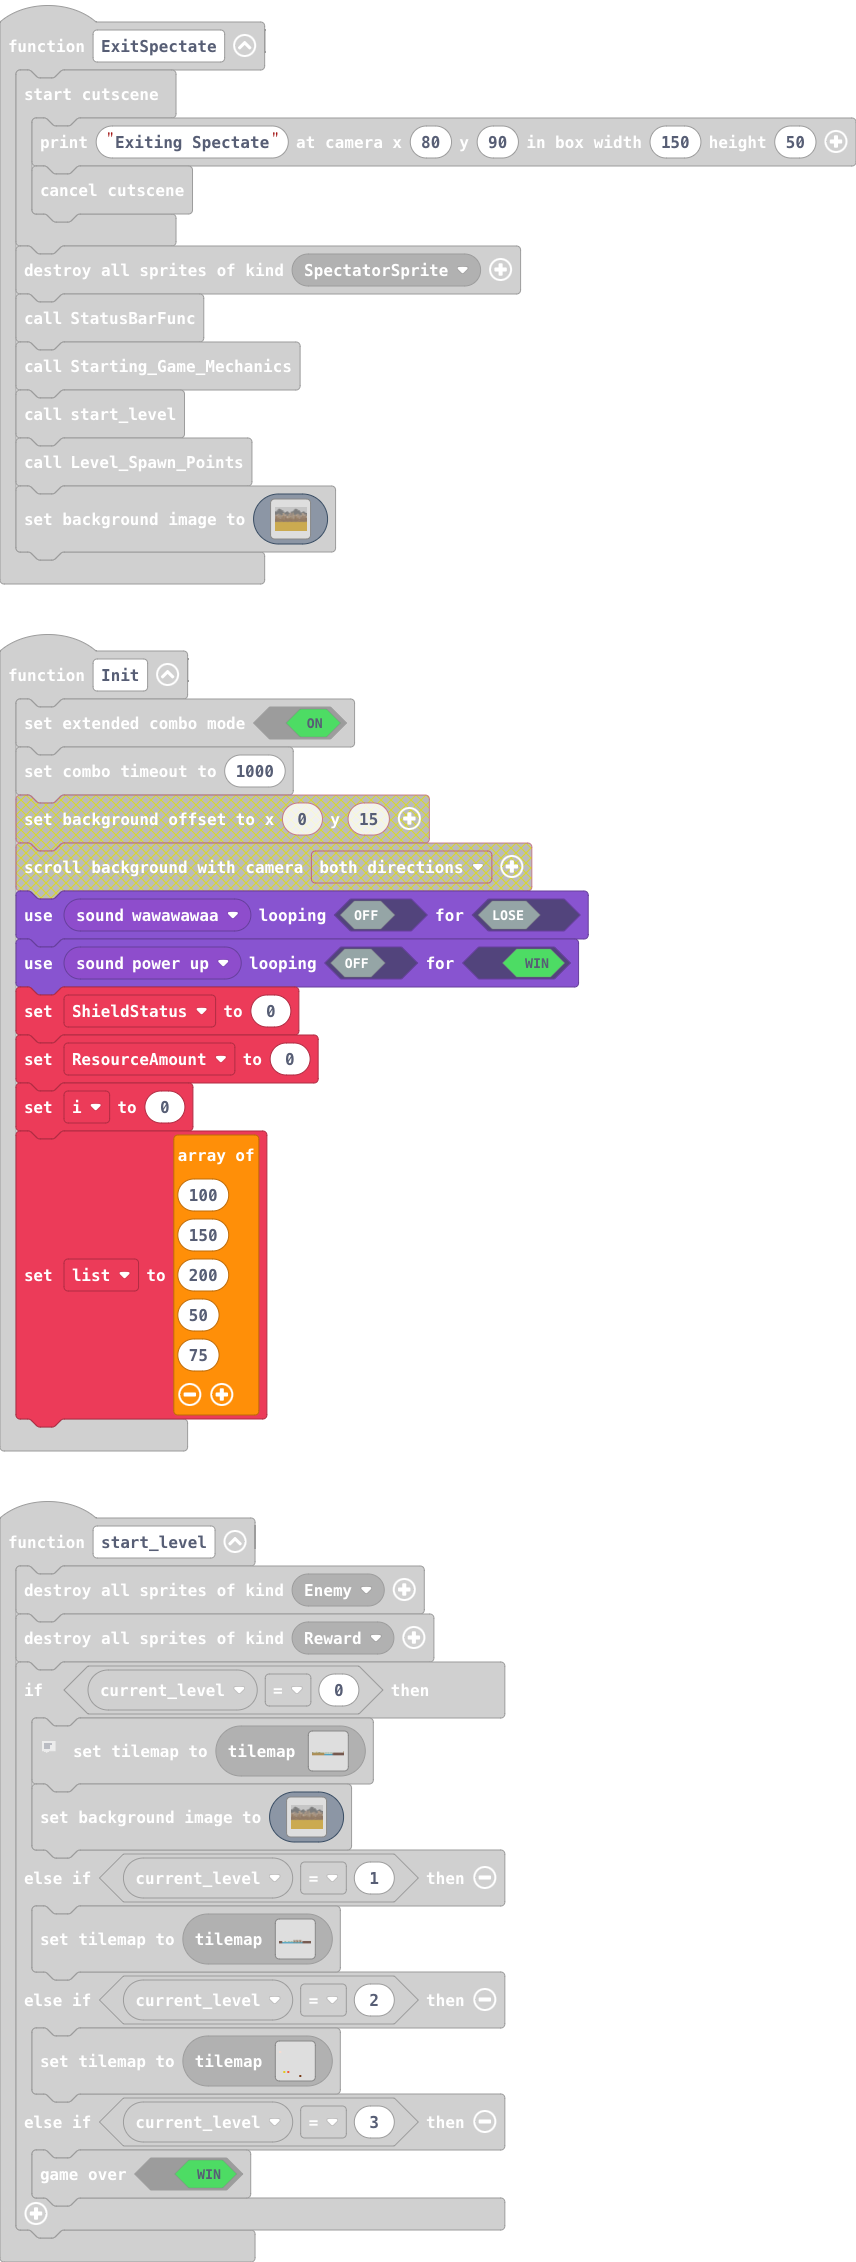
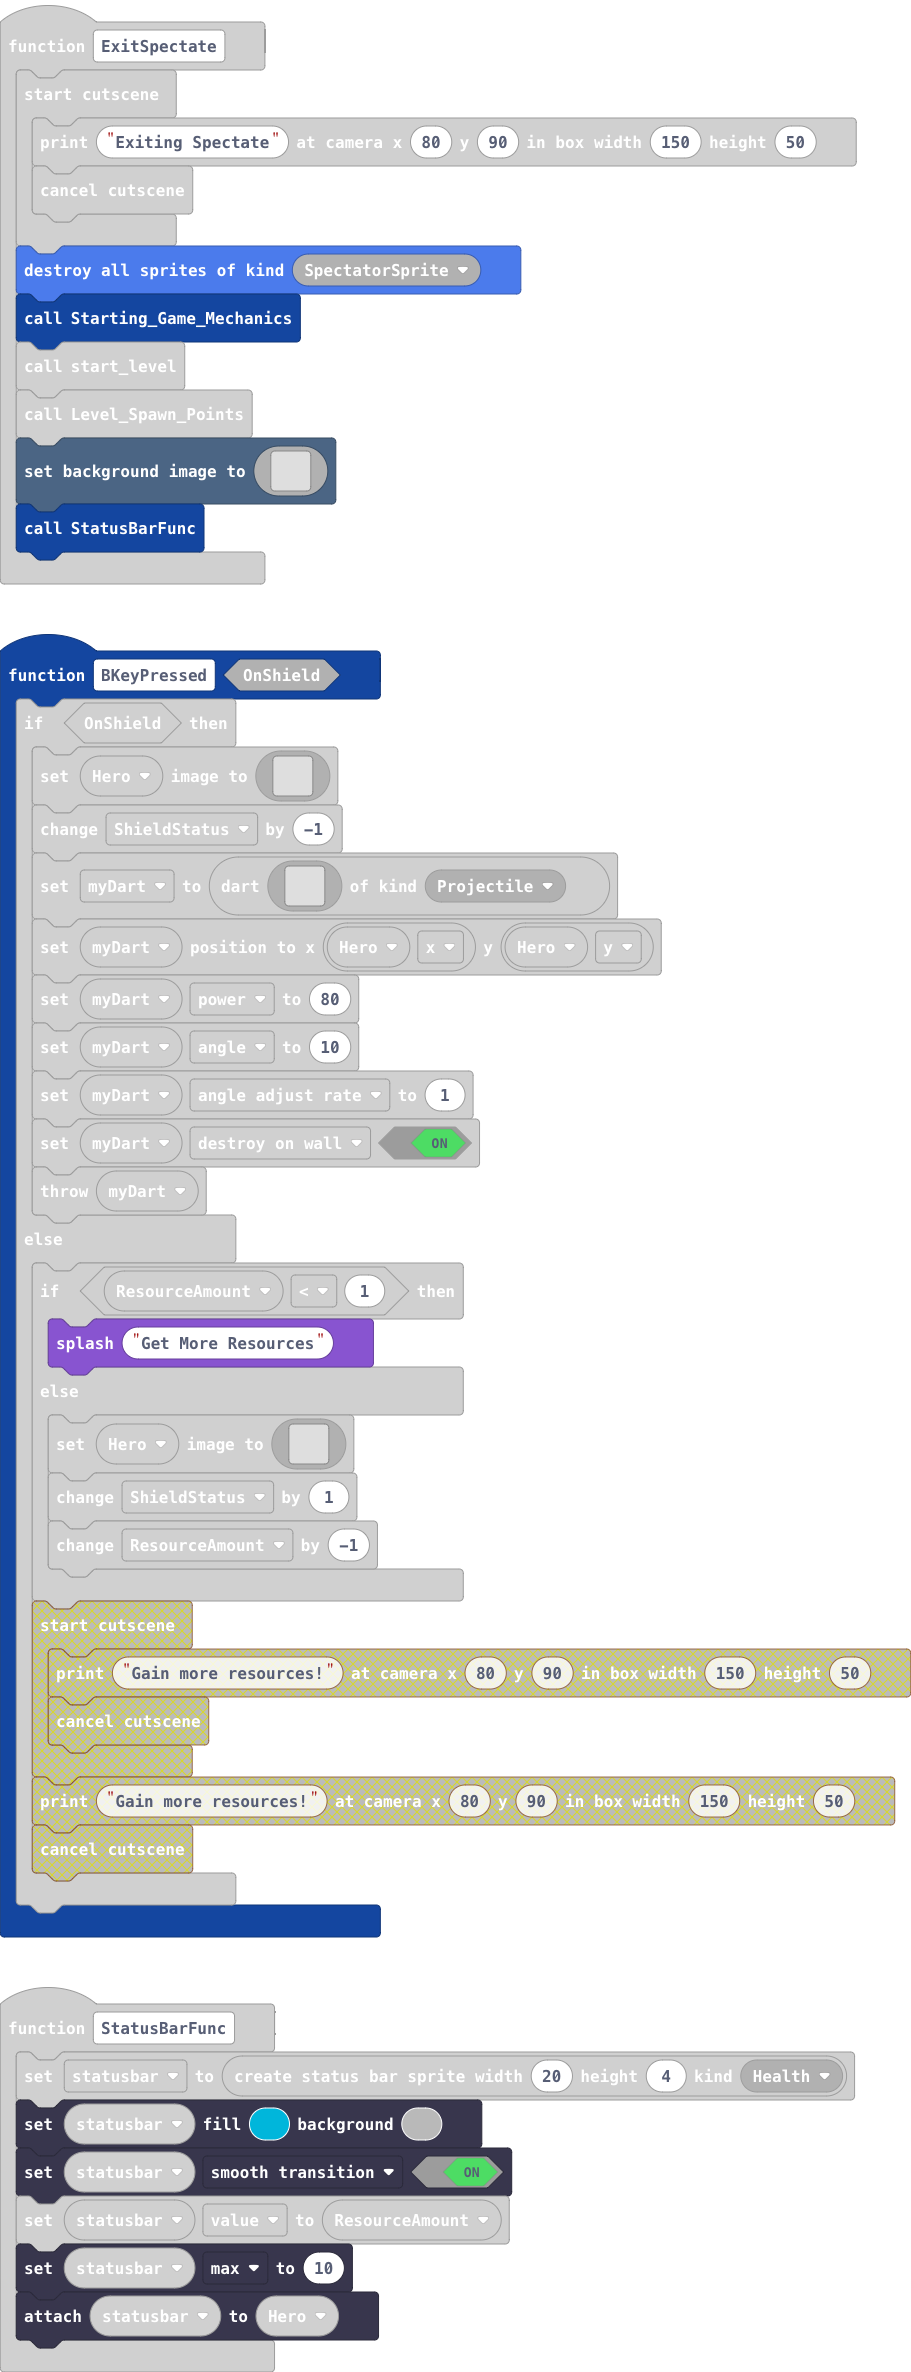
Update pxt.json, main.blocks, main.ts, tilemap.g.jres, tilemap.g.ts

diff --git a/tilemap.g.ts b/tilemap.g.ts
@@ -54,28 +54,11 @@ namespace myTiles {
     export const tile24 = image.ofBuffer(hex``);
     //% fixedInstance jres blockIdentity=images._tile
     export const tile26 = image.ofBuffer(hex``);
+    //% fixedInstance jres blockIdentity=images._tile
+    export const tile27 = image.ofBuffer(hex``);
 
     helpers._registerFactory("tilemap", function(name: string) {
         switch(helpers.stringTrim(name)) {
-            case "level18":
-            case "level18":return tiles.createTilemap(hex`1000100000000000000000000000000000000000000000000000000000000000000000000000000000000000000000000000000004000000000000000000000000000000000000000000000000000000000000000000000000000000000000000000000000000000000000000000000000000000000000000000000000000000000000000000000000000000000000000000000000000000000000000000000000000000000000000000000000000000000000000000000000000000000000000000000000000000000000000000000000000000000001000200000000000000000000000000000000000000000000000000000000000000000000000000030000000000`, img`
-. . . . . . . . . . . . . . . . 
-. . . . . . . . . . . . . . . . 
-. . . . . . . . . . . . . . . . 
-. . . . . . . . . . . . . . . . 
-. . . . . . . . . . . . . . . . 
-. . . . . . . . . . . . . . . . 
-. . . . . . . . . . . . . . . . 
-. . . . . . . . . . . . . . . . 
-. . . . . . . . . . . . . . . . 
-. . . . . . . . . . . . . . . . 
-. . . . . . . . . . . . . . . . 
-. . . . . . . . . . . . . . . . 
-. . . . . . . . . . . . . . . . 
-. . . . . . . . . . . . . . . . 
-. . . . . . . . . . . . . . . . 
-. . . . . . . . . . . . . . . . 
-`, [myTiles.transparency16,myTiles.tile5,myTiles.tile6,sprites.dungeon.chestOpen,myTiles.tile16], TileScale.Sixteen);
             case "level1":
[1 lines of base64/hex data omitted]
 ..................................................
@@ -96,7 +79,7 @@ namespace myTiles {
 2222222222222222222.............222222222222222222
 `, [myTiles.transparency16,myTiles.tile5,myTiles.tile16,myTiles.tile22,myTiles.tile23,myTiles.tile14,myTiles.tile4,myTiles.tile3,myTiles.tile7,myTiles.tile10,myTiles.tile21,myTiles.tile1,myTiles.tile11,myTiles.tile9,myTiles.tile13,myTiles.tile17,sprites.dungeon.hazardWater], TileScale.Sixteen);
             case "level5":
[2 lines of base64/hex data omitted]
 .......................................................
 .......................................................
 .......................................................
@@ -106,14 +89,49 @@ namespace myTiles {
 .......................................................
 .......................................................
 .......................................................
-.......................................................
-.........................2.2..2.2..2.2.................
+.........................222..222..222.................
+.........................2.2..2.2..2.2................2
 .........................2.2..2.2..2.2.................
 22222....222...222..222..222..222..222..222222222222222
 22222....................2.2..2.2..2.2..222222222222222
 22222....................2.2..2.2..2.2..222222222222222
 22222....................2.2..2.2..2.2..222222222222222
-`, [myTiles.transparency16,myTiles.tile16,myTiles.tile22,myTiles.tile7,myTiles.tile9,myTiles.tile17,myTiles.tile13,myTiles.tile11,sprites.dungeon.hazardWater,myTiles.tile18,myTiles.tile12,myTiles.tile19,myTiles.tile20,myTiles.tile24,myTiles.tile26], TileScale.Sixteen);
+`, [myTiles.transparency16,myTiles.tile16,myTiles.tile22,myTiles.tile7,myTiles.tile9,myTiles.tile17,myTiles.tile13,myTiles.tile11,sprites.dungeon.hazardWater,myTiles.tile18,myTiles.tile12,myTiles.tile19,myTiles.tile20,myTiles.tile24,myTiles.tile26,myTiles.tile21,myTiles.tile5,myTiles.tile1,myTiles.tile10], TileScale.Sixteen);
+            case "level18":
[1 lines of base64/hex data omitted]
+................................................................................................................................................................
+................................................................................................................................................................
+................................................................................................................................................................
+................................................................................................................................................................
+................................................................................................................................................................
+................................................................................................................................................................
+................................................................................................................................................................
+................................................................................................................................................................
+................................................................................................................................................................
+....................2..2..2..2..2..2..2..2222222................................................................................................................
+...............2....2..2..2..2..2..2..2.........................................................................................................................
+22.........2...2....2..2..2..2..2..2..2.........................................................................................................................
+......2....2...2....2..2..2..2..2..2..2.........................................................................................................................
+..2...2....2...2....2..2..2..2..2..2..2.........................................................................................................................
+22222222222222222...2..2..2..2..2..2..2.........................................................................................................................
+....................2..2..2..2..2..2..2.........................................................................................................................
+....................2..2..2..2..2..2..2.........................................................................................................................
+....................2..2..2..2..2..2..2.........................................................................................................................
+....................2..2..2..2..2..2..2.........................................................................................................................
+....................2..2..2..2..2..2..2..2......................................................................................................................
+....................2..2..2..2..2..2..2..2......................................................................................................................
+....................2..2..2..2..2..2..2..2......................................................................................................................
+222222222222222222222222222222222222222222......................................................................................................................
+................................................................................................................................................................
+................................................................................................................................................................
+................................................................................................................................................................
+................................................................................................................................................................
+................................................................................................................................................................
+................................................................................................................................................................
+................................................................................................................................................................
+................................................................................................................................................................
+................................................................................................................................................................
+`, [myTiles.transparency16,myTiles.tile16,myTiles.tile19,myTiles.tile20,myTiles.tile9,myTiles.tile4,myTiles.tile13,myTiles.tile10,myTiles.tile5,myTiles.tile17,myTiles.tile11,myTiles.tile18,sprites.dungeon.hazardWater], TileScale.Sixteen);
         }
         return null;
     })
@@ -173,6 +191,8 @@ namespace myTiles {
             case "tile24":return tile24;
             case "myTile20":
             case "tile26":return tile26;
+            case "myTile21":
+            case "tile27":return tile27;
         }
         return null;
     })

diff --git a/main.ts b/main.ts
@@ -267,7 +267,6 @@ function ExitSpectate () {
         story.cancelCurrentCutscene()
     })
     sprites.destroyAllSpritesOfKind(SpriteKind.SpectatorSprite)
-    StatusBarFunc()
     Starting_Game_Mechanics()
     start_level()
     Level_Spawn_Points()
@@ -393,6 +392,7 @@ function ExitSpectate () {
         dddddddddddddddddddddddddddddddddddddddddddddddddddddddddddddddddddddddddddddddddddddddddddddddddddddddddddddddddddddddddddddddddddddddddddddddddddddddddddddddd
         dddddddddddddddddddddddddddddddddddddddddddddddddddddddddddddddddddddddddddddddddddddddddddddddddddddddddddddddddddddddddddddddddddddddddddddddddddddddddddddddd
         `)
+    StatusBarFunc()
 }
 sprites.onOverlap(SpriteKind.Player, SpriteKind.Reward, function (sprite3, otherSprite) {
     otherSprite.destroy(effects.confetti, 500)
@@ -403,10 +403,10 @@ sprites.onOverlap(SpriteKind.Player, SpriteKind.Reward, function (sprite3, other
 function StatusBarFunc () {
     statusbar = statusbars.create(20, 4, StatusBarKind.Health)
     statusbar.setColor(9, 3)
-    statusbar.attachToSprite(Hero)
     statusbar.setStatusBarFlag(StatusBarFlag.SmoothTransition, true)
     statusbar.value = ResourceAmount
     statusbar.max = 10
+    statusbar.attachToSprite(Hero)
 }
 sprites.onOverlap(SpriteKind.Player, SpriteKind.Resource, function (sprite3, otherSprite) {
     otherSprite.destroy(effects.confetti, 500)
@@ -570,10 +570,7 @@ function BKeyPressed (OnShield: boolean) {
         myDart.throwDart()
     } else {
         if (ResourceAmount < 1) {
-            story.startCutscene(function () {
-                story.printDialog("Gain more resources!", 80, 90, 50, 150)
-                story.cancelCurrentCutscene()
-            })
+            game.splash("Get More Resources")
         } else {
             Hero.setImage(assets.image`myImage2`)
             ShieldStatus += 1
